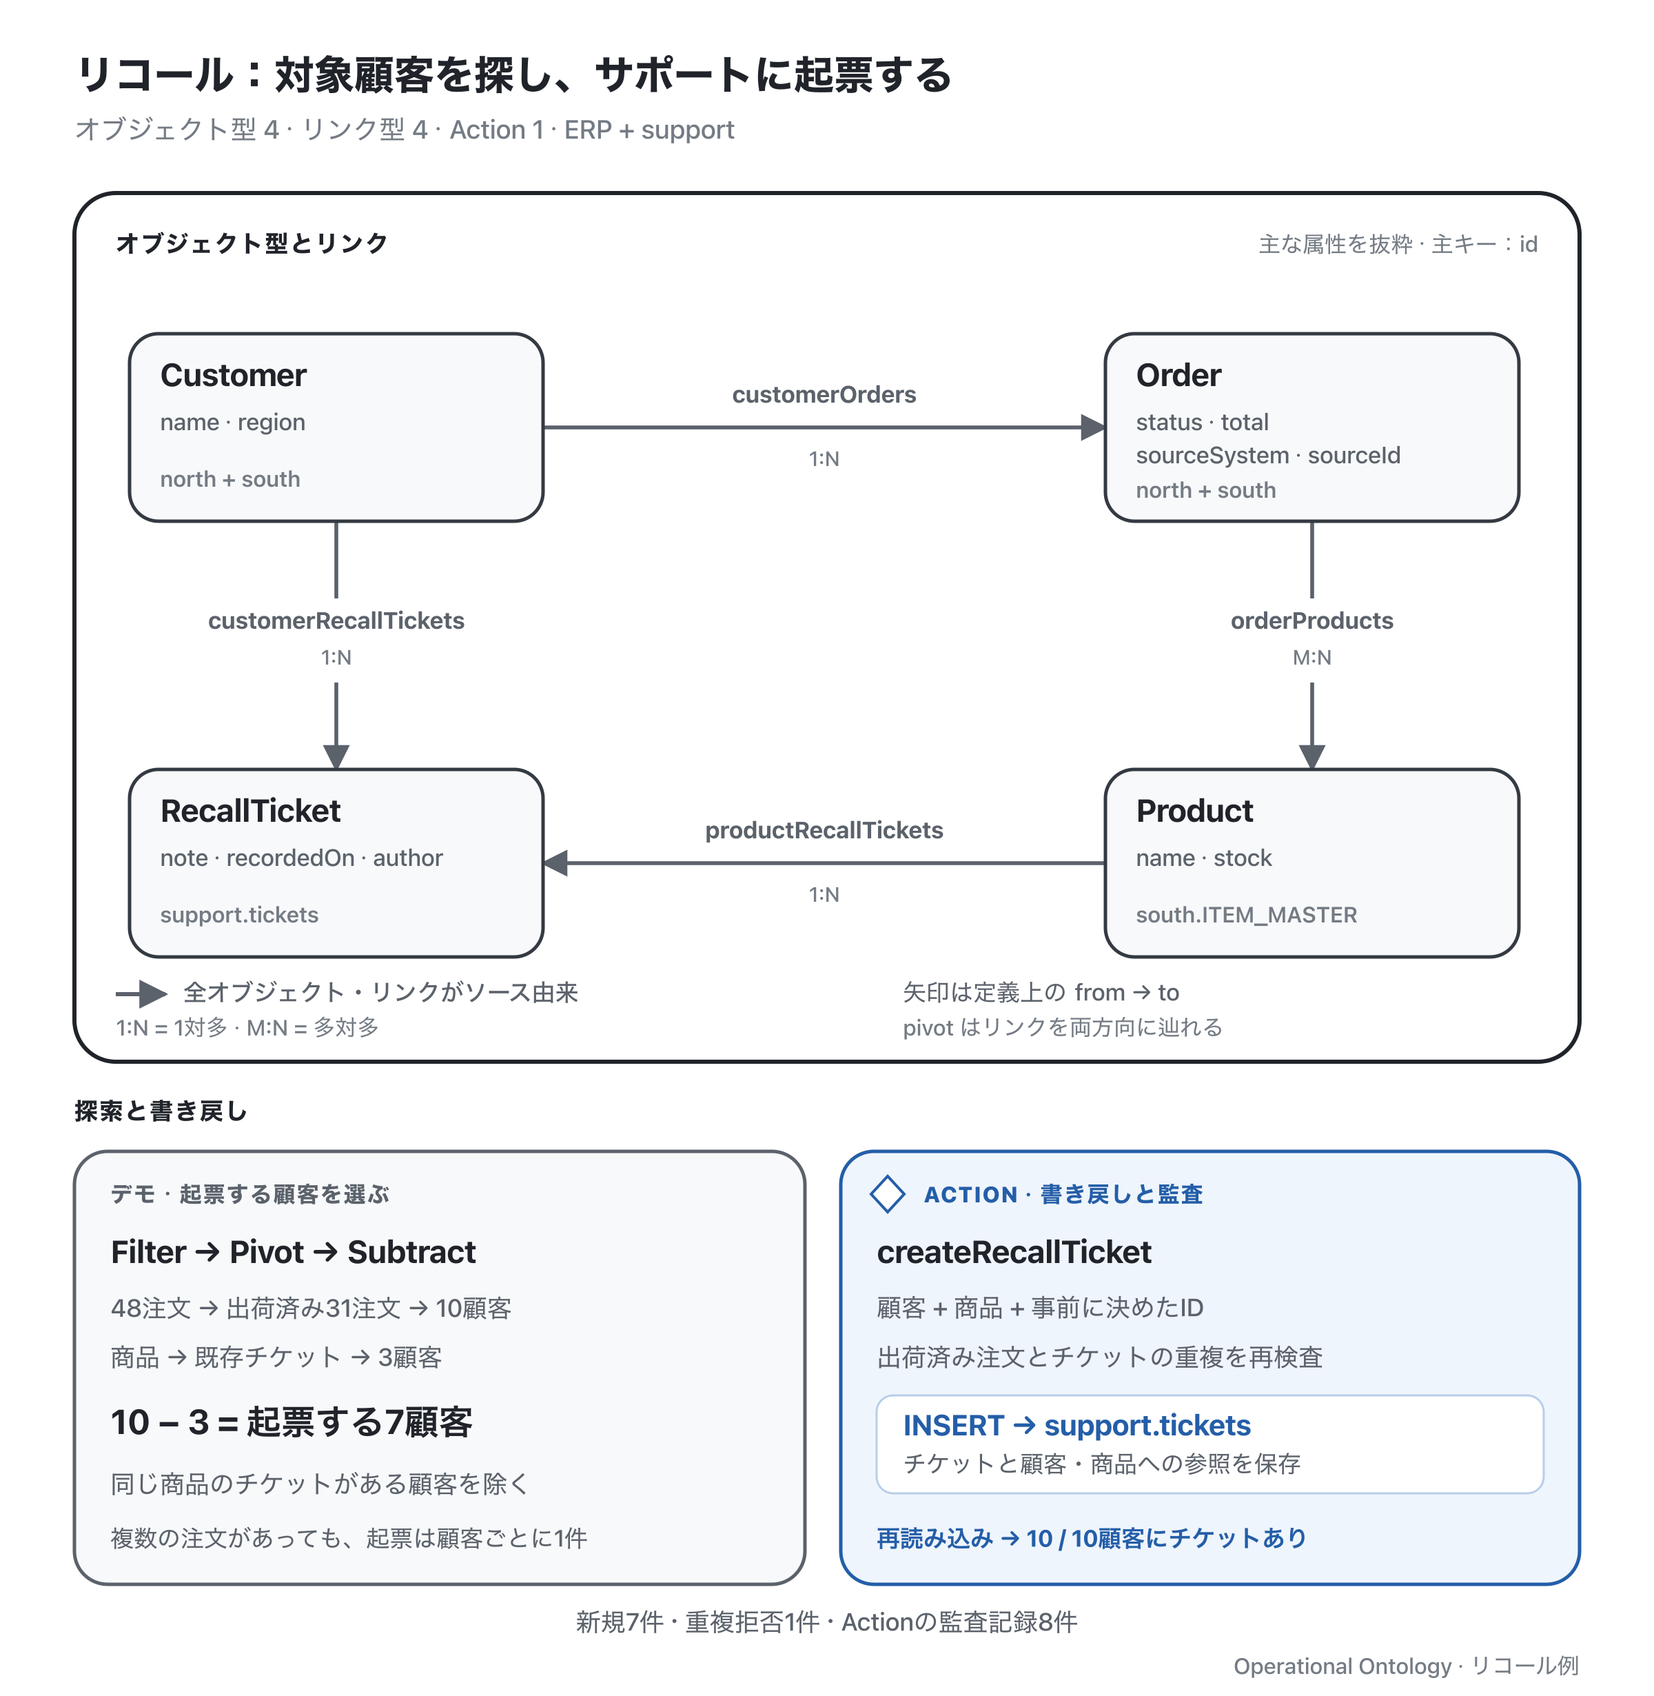
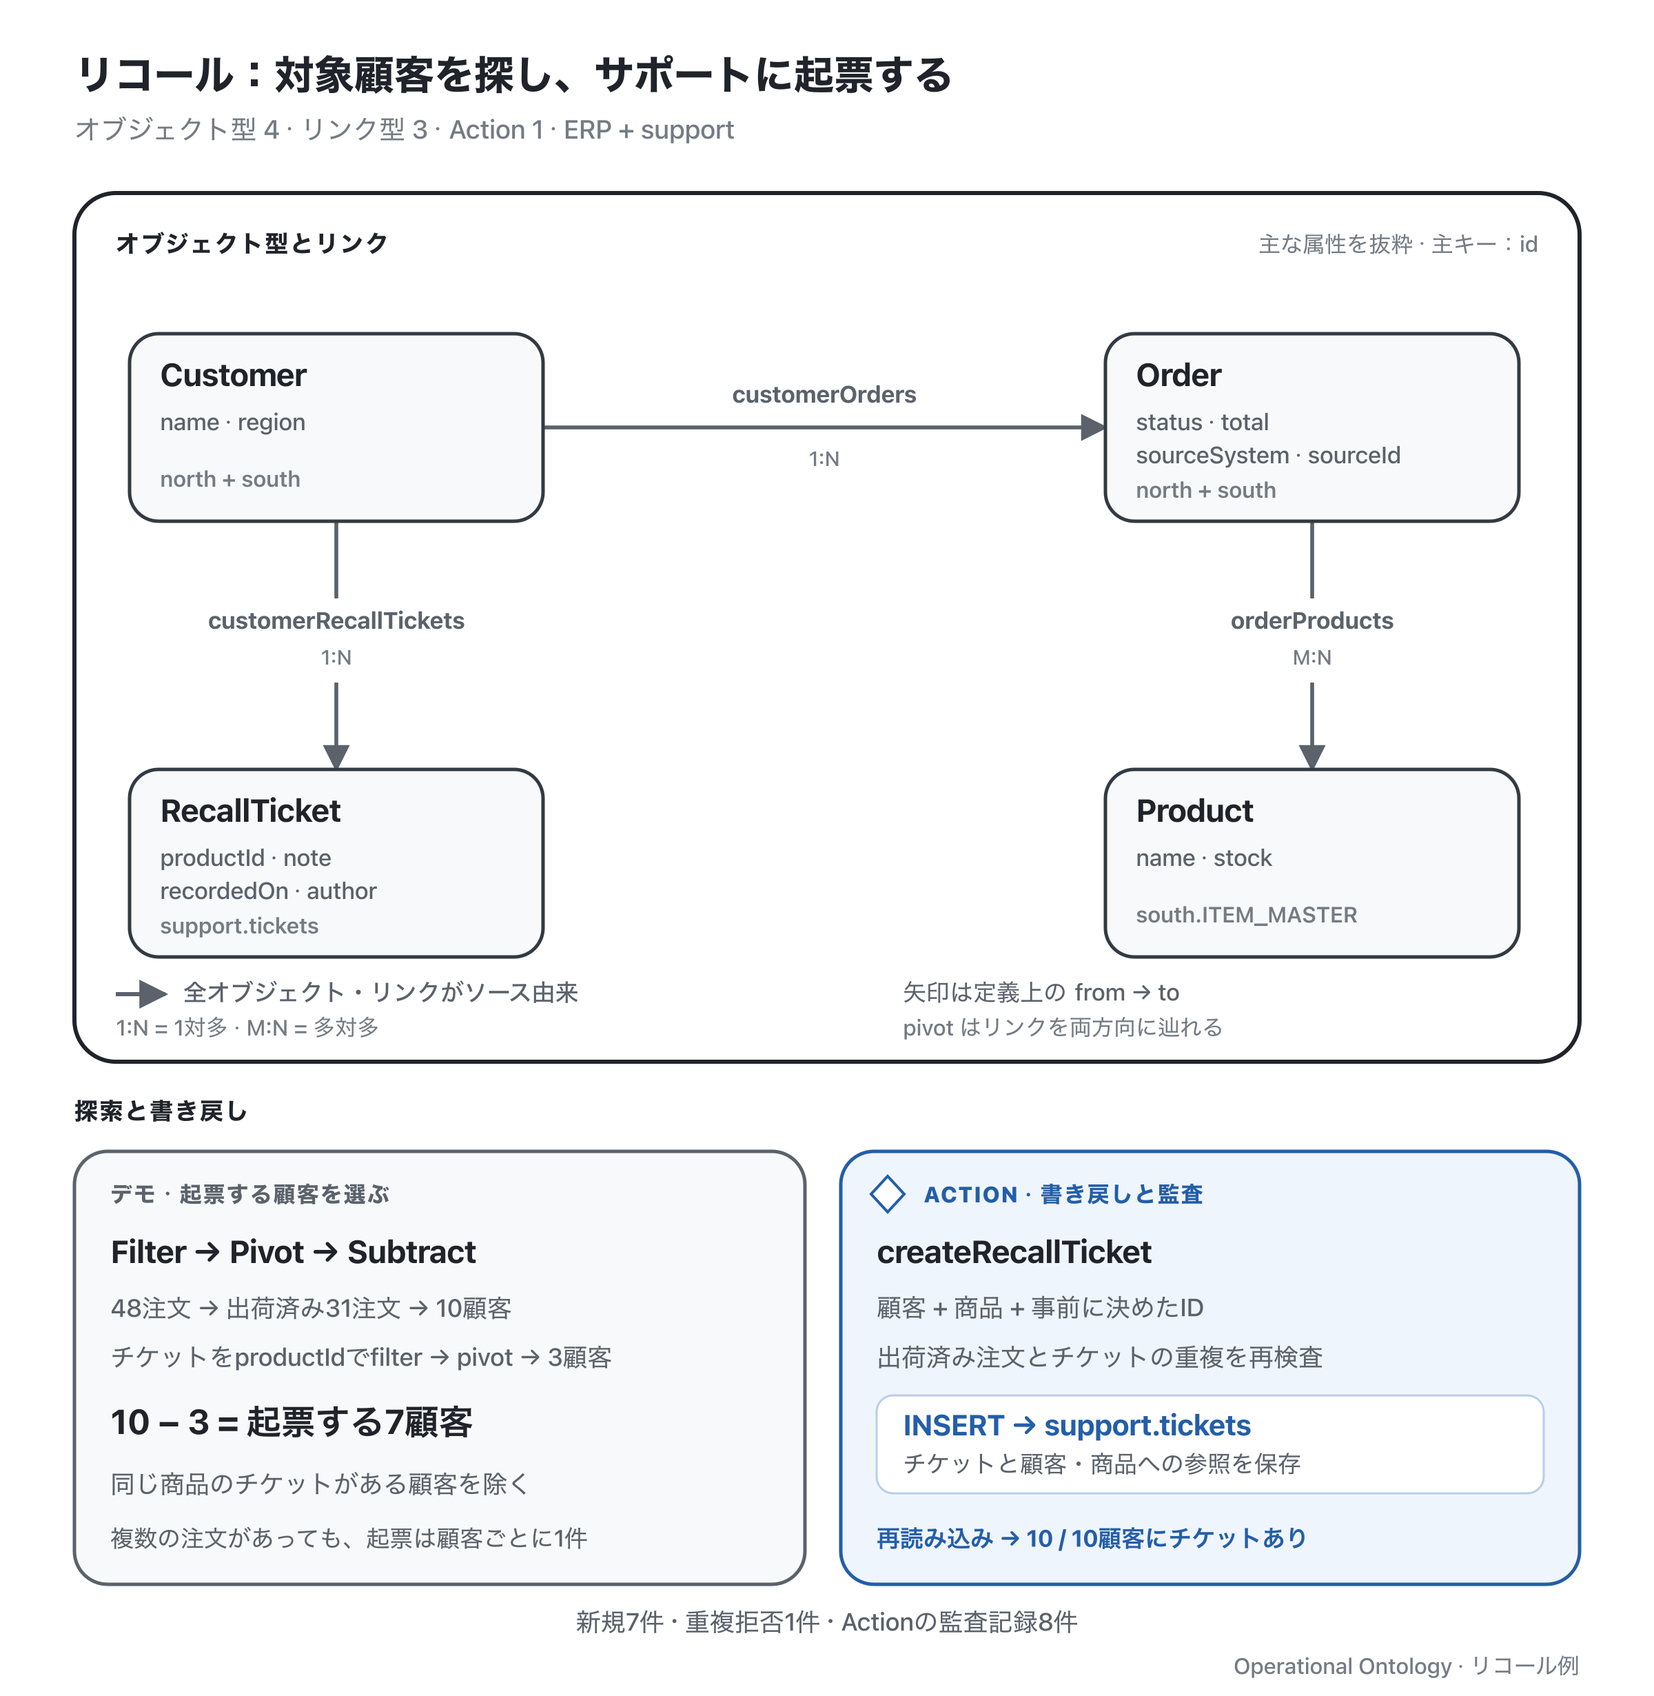
refactor: filter recall tickets by product property

diff --git a/examples/recall/scenario.test.ts b/examples/recall/scenario.test.ts
@@ -23,7 +23,7 @@ function discover(rt: Runtime<Recall>) {
   const orders = rt.traverse(product, 'orderProducts', { actor })
   const shipped = rt.filter(orders, (order) => order.properties.status === 'shipped')
   const customers = rt.pivot(shipped, 'customerOrders', { actor })
-  const tickets = rt.traverse(product, 'productRecallTickets', { actor })
+  const tickets = rt.filter(rt.search('RecallTicket', { actor }), (ticket) => ticket.properties.productId === product.pk)
   const covered = rt.pivot(tickets, 'customerRecallTickets', { actor })
   return { product, orders, shipped, customers, tickets, covered, selected: rt.subtract(customers, covered) }
 }
@@ -60,7 +60,7 @@ test('seven customer-only requests create support tickets, reject a duplicate an
     })
     const ticket = rt.get('RecallTicket', params.ticketId, { actor })!
     assert.deepEqual(ids(rt.traverse(ticket, 'customerRecallTickets', { actor }).objects), [customer.pk])
-    assert.deepEqual(ids(rt.traverse(ticket, 'productRecallTickets', { actor }).objects), [params.productId])
+    assert.equal(ticket.properties.productId, params.productId)
   }
   const duplicate = rt.execute('createRecallTicket', ticketParams(covered.objects[0].pk, 'RT-DUPLICATE'), { actor })
   assert.equal(duplicate.ok, false)
@@ -130,7 +130,7 @@ test('a ticket for another product does not exclude the customer; source updates
   const ticket = rt.get('RecallTicket', params.ticketId, { actor })!
   assert.equal(ticket.properties.note, 'Support corrected this note')
   assert.deepEqual(ids(rt.traverse(ticket, 'customerRecallTickets', { actor }).objects), ['N-C04'])
-  assert.deepEqual(ids(rt.traverse(ticket, 'productRecallTickets', { actor }).objects), ['ITM-101'])
+  assert.equal(ticket.properties.productId, 'ITM-101')
   assert.equal(discover(rt).selected.objects.length, 6)
 })
 
@@ -148,13 +148,16 @@ test('the support system refuses a duplicate created after indexing without leav
   assert.equal(sources.support.prepare('SELECT * FROM tickets WHERE id = ?').get(params.ticketId), undefined)
   assert.equal(sources.support.prepare('SELECT * FROM tickets').all().length, 4)
   assert.equal(rt.auditLog()[0].error?.code, 'WRITEBACK_FAILED')
-  assert.equal(rt.auditLog()[0].edits?.length, 3)
+  assert.equal(rt.auditLog()[0].edits?.length, 2)
   rt.load(integrate(sources))
   assert.deepEqual(ids(rt.traverse(customer, 'customerRecallTickets', { actor }).objects), ['RT-UPSTREAM'])
 })
 
-test('MCP clients pivot, subtract and create a support ticket without supplying order IDs', async (t) => {
+test('MCP clients filter, pivot, subtract and create a support ticket without supplying order IDs', async (t) => {
   const { rt, sources } = setup(t)
+  sources.support.prepare('INSERT INTO tickets VALUES (?, ?, ?, ?, ?, ?)')
+    .run('RT-MONITOR', 'N-C04', 'ITM-100', 'Monitor exchange', '2026-09-09', 'cs-phone')
+  rt.load(integrate(sources))
   const server = buildMcpServer(rt, { agent: 'cs-agent' })
   const [clientTransport, serverTransport] = InMemoryTransport.createLinkedPair()
   const client = new Client({ name: 'recall-test', version: '0.0.0' })
@@ -173,14 +176,16 @@ test('MCP clients pivot, subtract and create a support ticket without supplying 
   const orders = await call<ObjectSet>('traverse_order_products', { source: product })
   const shipped = orders.objects.filter((order) => order.properties.status === 'shipped')
   const customers = await call<ObjectSet>('pivot_customer_orders', { source: { type: 'Order', pks: ids(shipped) } })
-  const tickets = await call<ObjectSet>('traverse_product_recall_tickets', { source: product })
+  const allTickets = await call<ObjectSet>('search_recall_ticket', {})
+  const tickets = allTickets.objects.filter((ticket) => ticket.properties.productId === product.pk)
   const covered = await call<ObjectSet>('pivot_customer_recall_tickets', {
-    source: { type: 'RecallTicket', pks: ids(tickets.objects) },
+    source: { type: 'RecallTicket', pks: ids(tickets) },
   })
   const selected = await call<ObjectSet>('subtract_customer', { left: ids(customers.objects), right: ids(covered.objects) })
   assert.equal(selected.objects.length, 7)
+  assert.ok(ids(selected.objects).includes('N-C04'))
   await call('create_recall_ticket', ticketParams(selected.objects[0].pk, 'RT-MCP'))
-  assert.equal(sources.support.prepare('SELECT * FROM tickets').all().length, 4)
+  assert.equal(sources.support.prepare('SELECT * FROM tickets').all().length, 5)
 
   const refused = await client.callTool({
     name: 'create_recall_ticket', arguments: ticketParams(covered.objects[0].pk, 'RT-MCP-REFUSED'),

diff --git a/examples/recall/ontology.ts b/examples/recall/ontology.ts
@@ -23,7 +23,8 @@ const objects = {
   RecallTicket: defineObject({
     primaryKey: 'id', source: 'support.tickets',
     properties: {
-      id: z.string(), note: z.string(), recordedOn: z.string() /* YYYY-MM-DD */, author: z.string(),
+      id: z.string(), productId: z.string(), note: z.string(),
+      recordedOn: z.string() /* YYYY-MM-DD */, author: z.string(),
     },
   }),
 }
@@ -41,9 +42,6 @@ const schema = defineOntology({
     }),
     customerRecallTickets: defineLink({
       from: 'Customer', to: 'RecallTicket', kind: 'one-to-many', via: 'support.tickets.customer_id',
-    }),
-    productRecallTickets: defineLink({
-      from: 'Product', to: 'RecallTicket', kind: 'one-to-many', via: 'support.tickets.product_id',
     }),
   },
   actions: {},
@@ -74,10 +72,9 @@ export function createRecallOntology(read: () => RecallRead) {
             if (!product) return reject('UNKNOWN_PRODUCT', `product ${params.productId} does not exist`)
           },
           ({ object, params, actor }) => {
-            const product = read().get('Product', params.productId, { actor })!
             const customerTickets = read().traverse(object, 'customerRecallTickets', { actor })
-            const productTickets = read().traverse(product, 'productRecallTickets', { actor })
-            if (read().intersect(customerTickets, productTickets).objects.length > 0) {
+            const matching = read().filter(customerTickets, (ticket) => ticket.properties.productId === params.productId)
+            if (matching.objects.length > 0) {
               return reject('RECALL_TICKET_ALREADY_EXISTS', `customer ${object.pk} already has a recall ticket for ${params.productId}`)
             }
           },
@@ -93,10 +90,10 @@ export function createRecallOntology(read: () => RecallRead) {
         ],
         effects: ({ object, params }) => [
           create('RecallTicket', params.ticketId, {
-            id: params.ticketId, note: params.note, recordedOn: params.recordedOn, author: params.author,
+            id: params.ticketId, productId: params.productId,
+            note: params.note, recordedOn: params.recordedOn, author: params.author,
           }),
           link('customerRecallTickets', object.pk, params.ticketId),
-          link('productRecallTickets', params.productId, params.ticketId),
         ],
         writeback: true,
       }),

diff --git a/examples/recall/demo.ts b/examples/recall/demo.ts
@@ -27,8 +27,9 @@ try {
   trace('Pivot customerOrders (reverse): Order → Customer', { shipped }, customers)
   log(`${shipped.objects.length} orders belong to ${customers.objects.length} customers. Repeat purchases collapse to one customer.`)
 
-  const existingTickets = rt.traverse(product, 'productRecallTickets', { actor })
-  trace('Traverse productRecallTickets: Product → RecallTicket', { product }, existingTickets)
+  const allTickets = rt.search('RecallTicket', { actor })
+  const existingTickets = rt.filter(allTickets, (ticket) => ticket.properties.productId === product.pk)
+  trace(`Filter: RecallTicket.productId = ${product.pk}`, { allTickets }, existingTickets)
   log('These three tickets were recorded in the support system after yesterday\'s phone calls.')
   const coveredCustomers = rt.pivot(existingTickets, 'customerRecallTickets', { actor })
   trace('Pivot customerRecallTickets (reverse): RecallTicket → Customer', { existingTickets }, coveredCustomers)
@@ -69,8 +70,9 @@ try {
   const refreshedCustomers = rt.pivot(
     rt.filter(refreshedOrders, (order) => order.properties.status === 'shipped'), 'customerOrders', { actor },
   )
-  const tickets = rt.traverse(refreshedProduct, 'productRecallTickets', { actor })
-  trace('Re-index, then traverse Product → RecallTicket', { product: refreshedProduct }, tickets)
+  const refreshedTickets = rt.search('RecallTicket', { actor })
+  const tickets = rt.filter(refreshedTickets, (ticket) => ticket.properties.productId === refreshedProduct.pk)
+  trace(`Re-index, then filter: RecallTicket.productId = ${refreshedProduct.pk}`, { refreshedTickets }, tickets)
   const ticketedCustomers = rt.pivot(tickets, 'customerRecallTickets', { actor })
   trace('Pivot RecallTicket → Customer', { tickets }, ticketedCustomers)
   const missing = rt.subtract(refreshedCustomers, ticketedCustomers)

diff --git a/examples/recall/support-adapter.ts b/examples/recall/support-adapter.ts
@@ -1,22 +1,21 @@
 import type { Database } from 'better-sqlite3'
 import type { WritebackAdapter } from '../../src/core.js'
 
-/** Persist one recall ticket and its two relationships as one atomic INSERT. */
+/** Persist one recall ticket and its customer link as one atomic INSERT. */
 export function createSupportAdapter(support: Database): WritebackAdapter {
   return {
     apply(edits) {
-      const [ticket, customer, product] = edits
-      if (edits.length !== 3 || ticket.op !== 'create' || ticket.object !== 'RecallTicket' ||
-          customer.op !== 'link' || customer.link !== 'customerRecallTickets' || customer.to !== ticket.pk ||
-          product.op !== 'link' || product.link !== 'productRecallTickets' || product.to !== ticket.pk) {
-        throw new Error('support only accepts a recall ticket with its customer and product links')
+      const [ticket, customer] = edits
+      if (edits.length !== 2 || ticket.op !== 'create' || ticket.object !== 'RecallTicket' ||
+          customer.op !== 'link' || customer.link !== 'customerRecallTickets' || customer.to !== ticket.pk) {
+        throw new Error('support only accepts a recall ticket with its customer link')
       }
       // The source also enforces one ticket per customer/product, including
       // tickets created upstream after the ontology's last refresh.
       support.prepare(`
         INSERT INTO tickets (id, customer_id, product_id, note, recorded_on, author)
         VALUES (?, ?, ?, ?, ?, ?)
-      `).run(ticket.pk, customer.from, product.from, ticket.data.note, ticket.data.recordedOn, ticket.data.author)
+      `).run(ticket.pk, customer.from, ticket.data.productId, ticket.data.note, ticket.data.recordedOn, ticket.data.author)
     },
   }
 }

diff --git a/examples/recall/integrate.ts b/examples/recall/integrate.ts
@@ -49,13 +49,13 @@ export function integrate({ north, south, support }: RecallDbs) {
     objects: {
       Customer: customers, Order: orders.map((order) => order.row), Product: products,
       RecallTicket: tickets.map((ticket) => ({
-        id: ticket.id, note: ticket.note, recordedOn: ticket.recorded_on, author: ticket.author,
+        id: ticket.id, productId: ticket.product_id,
+        note: ticket.note, recordedOn: ticket.recorded_on, author: ticket.author,
       })),
     },
     links: {
       customerOrders, orderProducts,
       customerRecallTickets: tickets.map((ticket): [string, string] => [ticket.customer_id, ticket.id]),
-      productRecallTickets: tickets.map((ticket): [string, string] => [ticket.product_id, ticket.id]),
     },
   }
 }

diff --git a/examples/recall/README.md b/examples/recall/README.md
@@ -28,7 +28,7 @@ The example uses three separate in-memory SQLite source databases and an ontolog
 
 Integration normalizes the two ERPs' different schemas and status codes into `Customer`, `Order` and `Product`. `RecallTicket` represents a record in `support.tickets`.
 
-All four object types and all four links are source-backed. A ticket's customer and product links come from the references on its support record. Tickets do not retain a list of order IDs. The example shares the orders model's Customer–Order–Product structure and omits its assignee, notes and visibility policy.
+All four object types and all three links are source-backed. A ticket's customer link comes from its support record's `customer_id`; its `productId` property comes from `product_id`. Tickets do not retain a list of order IDs. The example shares the orders model's Customer–Order–Product structure and omits its assignee, notes and visibility policy.
 
 ## 1. Find shipped orders containing the recalled keyboard
 
@@ -44,15 +44,15 @@ The full dataset contains 300 orders. Of the 48 keyboard orders, 14 are pending 
 
 Pivot the shipped orders through `customerOrders` in reverse. Pivot deduplicates the customers, so 31 orders become ten customers.
 
-From the same product, traverse `productRecallTickets` to its three existing tickets, then pivot those tickets through `customerRecallTickets` in reverse. These are the three customers who phoned yesterday. Subtract this customer set from the ten affected customers.
+Search `RecallTicket` and filter by `productId === 'ITM-101'` to find its three existing tickets, then pivot those tickets through `customerRecallTickets` in reverse. These are the three customers who phoned yesterday. Subtract this customer set from the ten affected customers.
 
 ```text
 31 shipped orders → pivot → 10 affected customers
-Product ITM-101 → tickets → pivot → 3 customers with existing tickets
+RecallTicket → filter by productId → pivot → 3 customers with existing tickets
 10 affected customers − 3 customers with tickets → 7 customers to act on
 ```
 
-Both operands of `subtract` are Customer sets. Starting the ticket lookup from the product ensures that a ticket for another product does not exclude a customer.
+Both operands of `subtract` are Customer sets. Filtering tickets by `productId` ensures that a ticket for another product does not exclude a customer.
 
 ## 3. Create a support ticket for each selected customer
 
@@ -66,7 +66,7 @@ The Action rechecks the current indexed state:
 | No ticket exists for this customer and product | `RECALL_TICKET_ALREADY_EXISTS` |
 | This customer has a shipped order containing this product | `NO_SHIPPED_ORDER` |
 
-With `writeback: true`, the Action sends its ticket creation and two links to the support adapter. One SQL `INSERT` persists all three edits as a ticket row with customer and product references. The runtime then commits the local object, links and audit entry. The seven calls are separate transactions; each successful call creates one ticket.
+With `writeback: true`, the Action sends the ticket creation, including `productId`, and its customer link to the support adapter. One SQL `INSERT` persists both edits as a ticket row with customer and product references. The runtime then commits the local object, link and audit entry. The seven calls are separate transactions; each successful call creates one ticket.
 
 The support table also enforces uniqueness of `(customer_id, product_id)`. If another ticket appeared at the source after indexing, the INSERT fails and the runtime returns `WRITEBACK_FAILED` without creating a local ticket. Order eligibility is checked against the indexed ERP data; this is not a transaction across all three systems.
 
@@ -74,7 +74,7 @@ The support table also enforces uniqueness of `(customer_id, product_id)`. If an
 
 Try creating another ticket for one of yesterday's customers. The Action refuses it with `RECALL_TICKET_ALREADY_EXISTS`.
 
-Reload the snapshot from all three source systems. Traverse from the product to its ten tickets, pivot to their customers, and subtract those customers from the affected set. An empty result confirms coverage of all ten customers.
+Reload the snapshot from all three source systems. Filter tickets by `productId` to find the ten tickets for ITM-101, pivot to their customers, and subtract those customers from the affected set. An empty result confirms coverage of all ten customers.
 
 | Result | Count |
 | --- | --- |
@@ -95,4 +95,4 @@ Run `pnpm mcp:recall`, or connect from the repository root:
 claude --strict-mcp-config --mcp-config examples/recall/.mcp.json
 ```
 
-The same model exposes tools such as `get_product`, `traverse_order_products`, `pivot_customer_orders`, `subtract_customer` and `create_recall_ticket`. MCP clients filter returned orders in their own code and pass selected IDs to the next tool. Human and agent callers execute the same Action. This example assumes one writer and visibility of all resources relevant to a decision; see the [runtime contracts](../../docs/IMPLEMENTATION.md).
+The same model exposes tools such as `get_product`, `traverse_order_products`, `pivot_customer_orders`, `search_recall_ticket`, `pivot_customer_recall_tickets`, `subtract_customer` and `create_recall_ticket`. MCP clients filter returned orders by status and tickets by `productId` in their own code, then pass selected IDs to the next tool. Human and agent callers execute the same Action. This example assumes one writer and visibility of all resources relevant to a decision; see the [runtime contracts](../../docs/IMPLEMENTATION.md).
